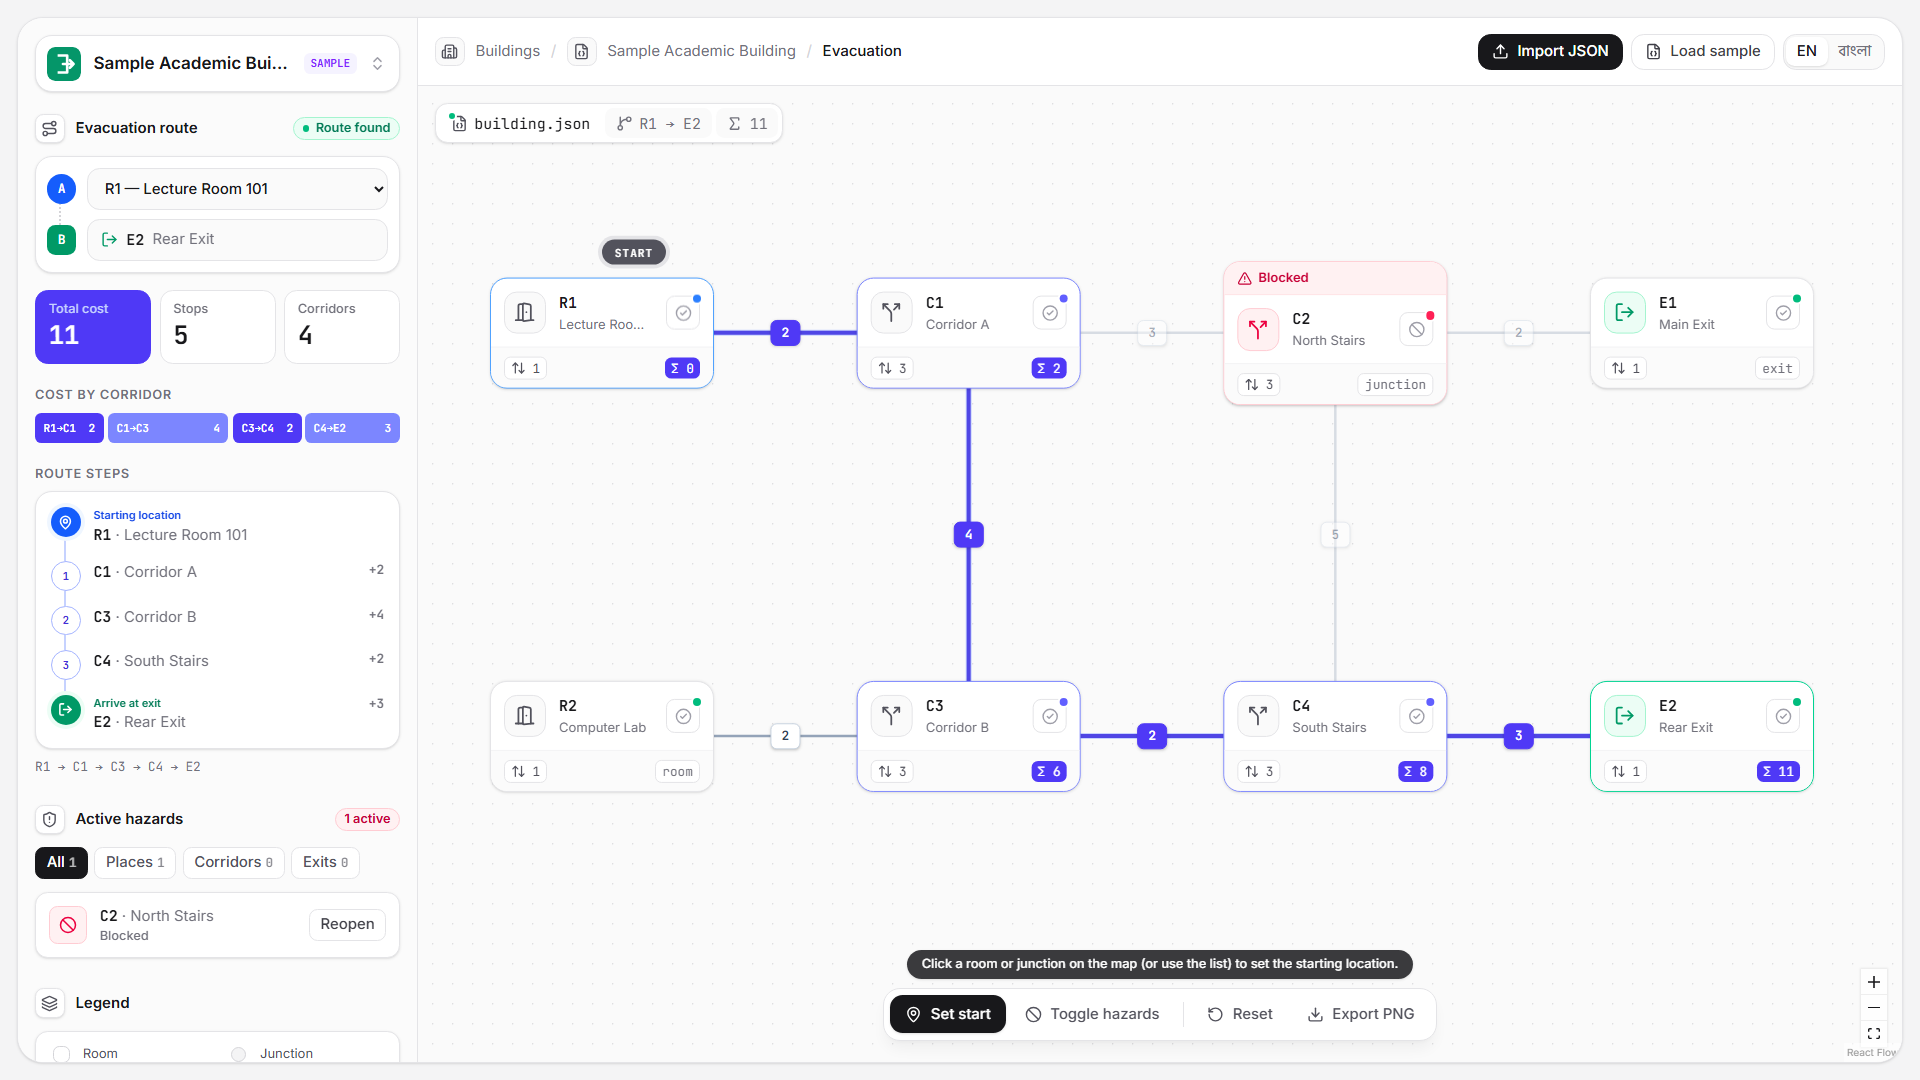
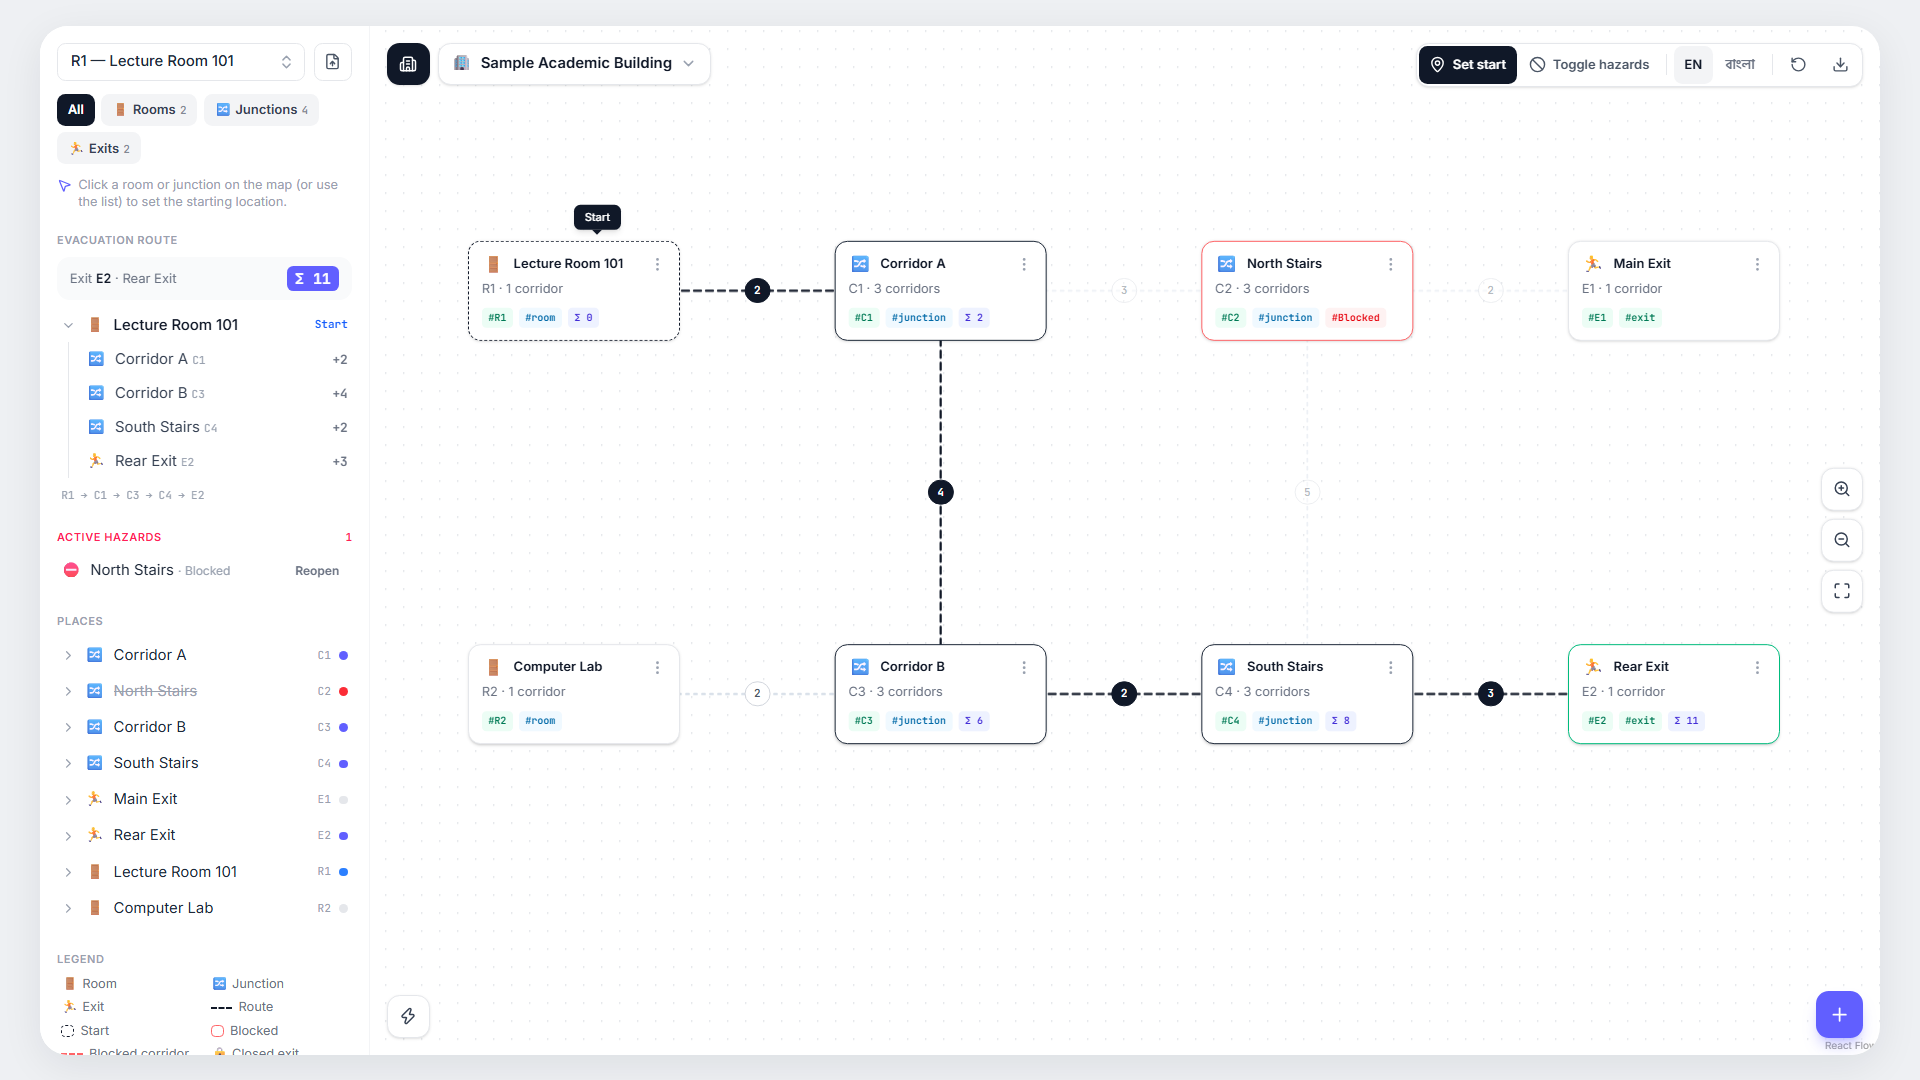
Refresh screenshots and README for the outliner design
Prompt: Update the screenshots and README for the Mind Palace style UI.

diff --git a/README.md b/README.md
@@ -79,7 +79,7 @@ sequence (case-sensitive, plain string comparison).
 - Hazard alert cards with filter chips and Reopen — Nextdoor
 - Floating map legend — Felt
 - Floating map tool palette — Higgsfield / Tana
-- Neutral dashboard look (sidebar switcher, breadcrumb, chip row, node cards with status dots) — infra network dashboard reference
+- Outliner sidebar, note-card nodes with #tags, dashed connectors with round badges, zoom column — Mind Palace canvas reference
 
 ## Tech
 
